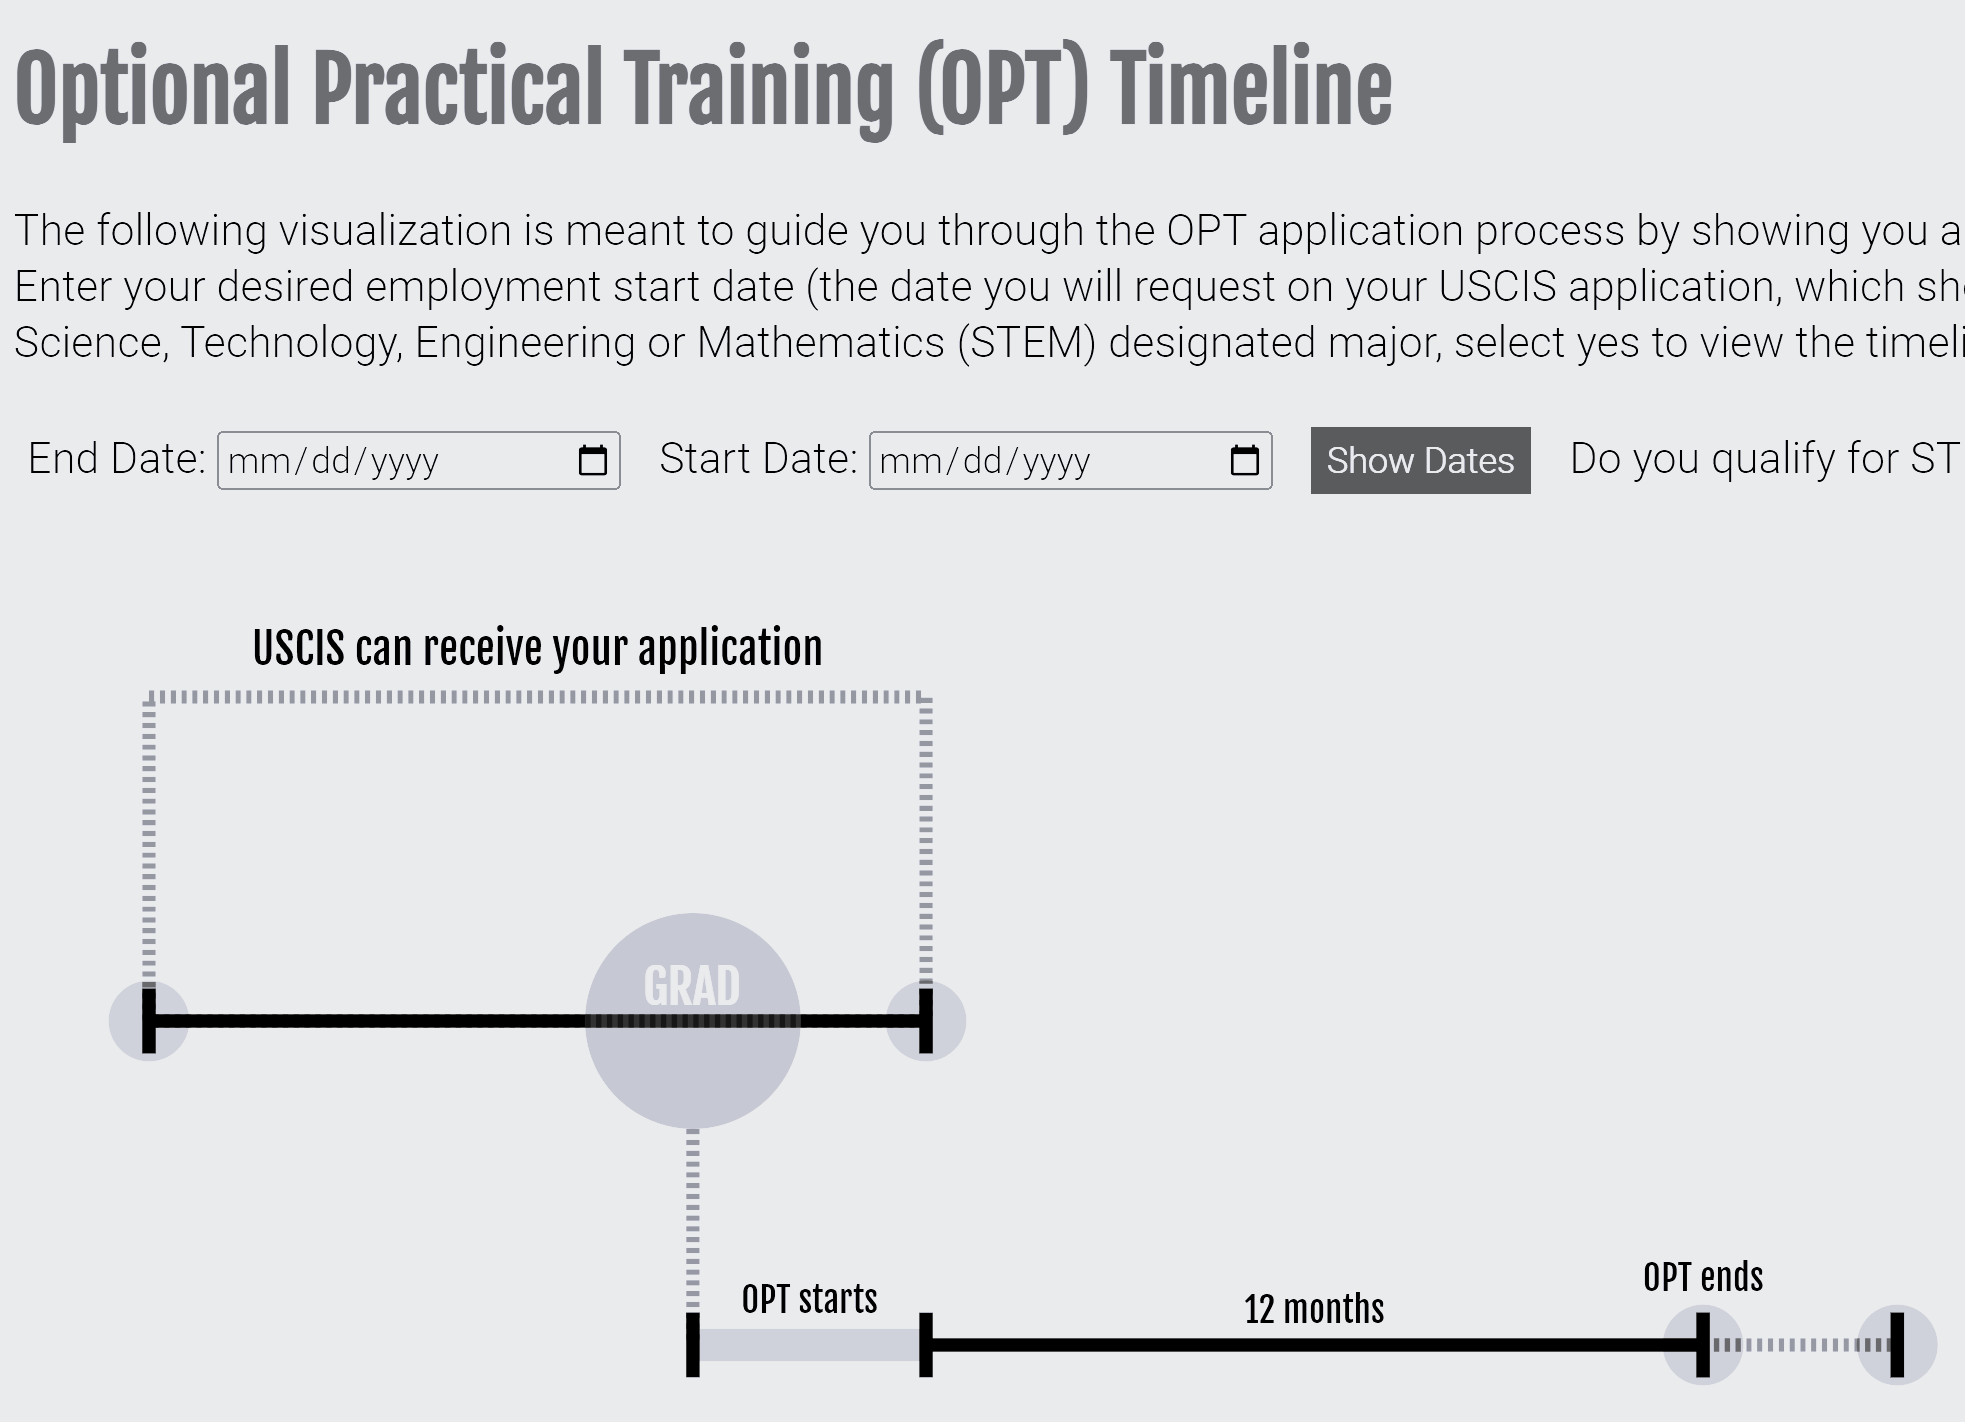
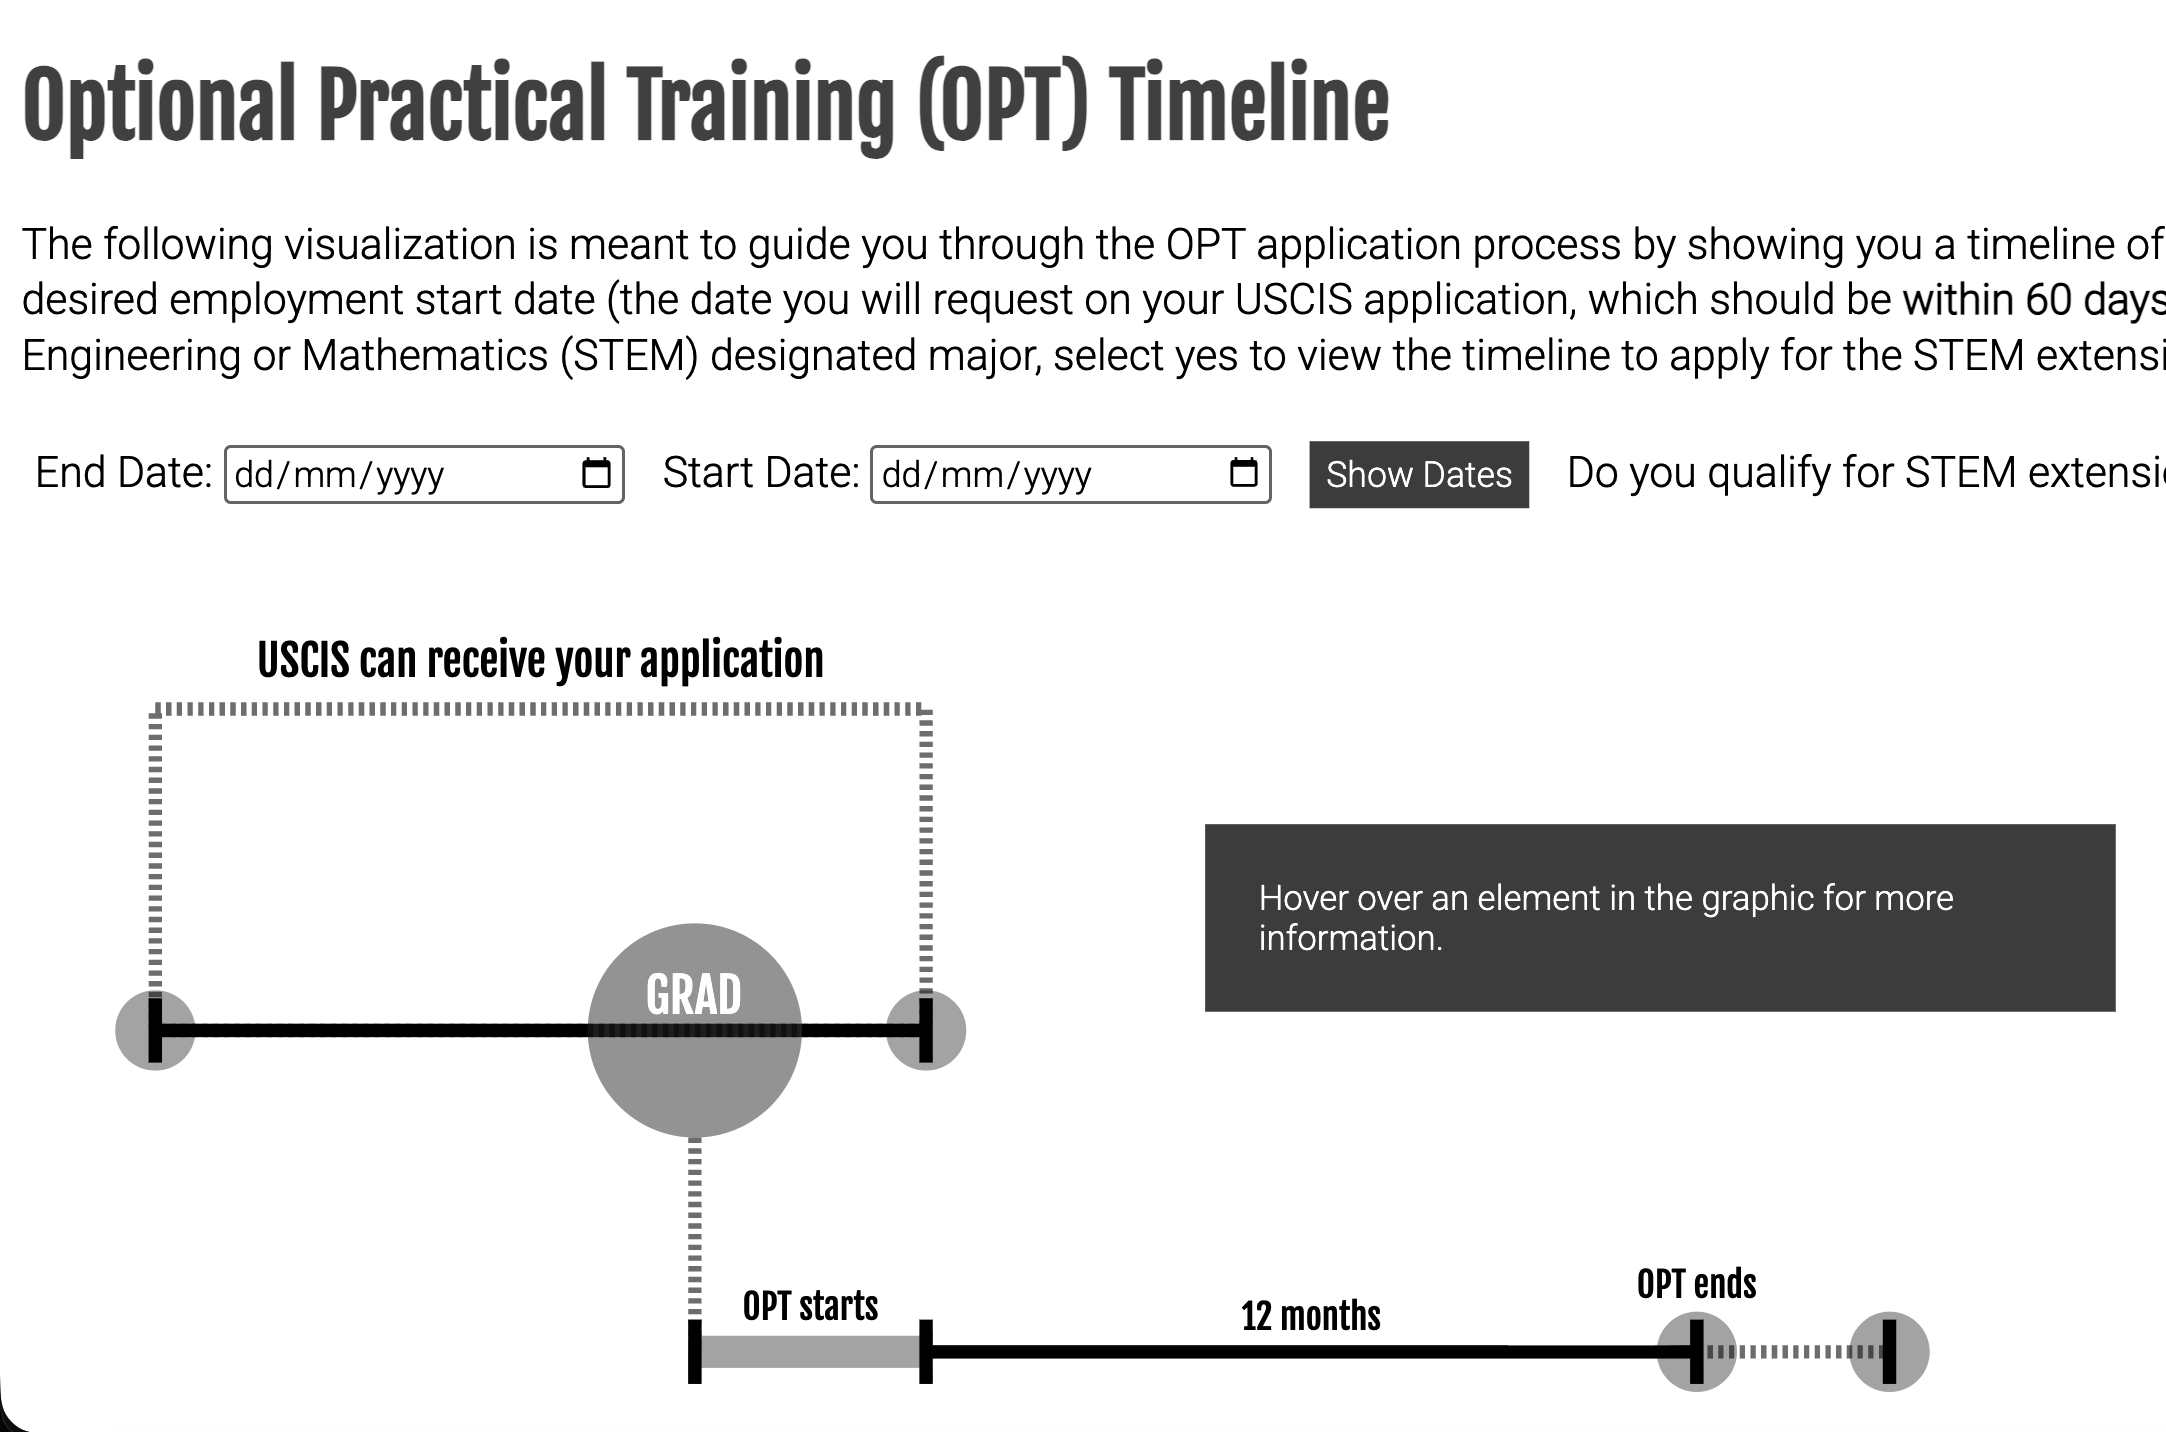
Update project preview images

diff --git a/index.html b/index.html
@@ -376,7 +376,7 @@
 
                 <div class="projects-list">
                     <a class="project-card project-card--period" href="https://github.com/uchicago-mscapp-projects/maroon-justice-index" target="_blank" rel="noopener">
-                        <img src="img/proj_period.png" alt="Map from the Measuring Menstrual Poverty in Chicago project" class="project-img project-img--period">
+                        <img src="img/proj_period.png" alt="Map from the Measuring Menstrual Poverty in Chicago project" class="project-img project-img--period project-img--grayscale">
                         <div class="project-copy">
                             <p class="project-meta">Data visualization</p>
                             <h3>Measuring Menstrual Poverty in Chicago</h3>
@@ -388,7 +388,7 @@
                     </a>
 
                     <a class="project-card" href="https://ivannarodriguez.github.io/opt_timeline/" target="_blank" rel="noopener">
-                        <img src="img/proj_opt.png" alt="Diagram from the OPT Timeline project" class="project-img">
+                        <img src="img/proj_opt.png" alt="Diagram from the OPT Timeline project" class="project-img project-img--grayscale">
                         <div class="project-copy">
                             <p class="project-meta">Interactive explainer</p>
                             <h3>OPT Timeline</h3>
